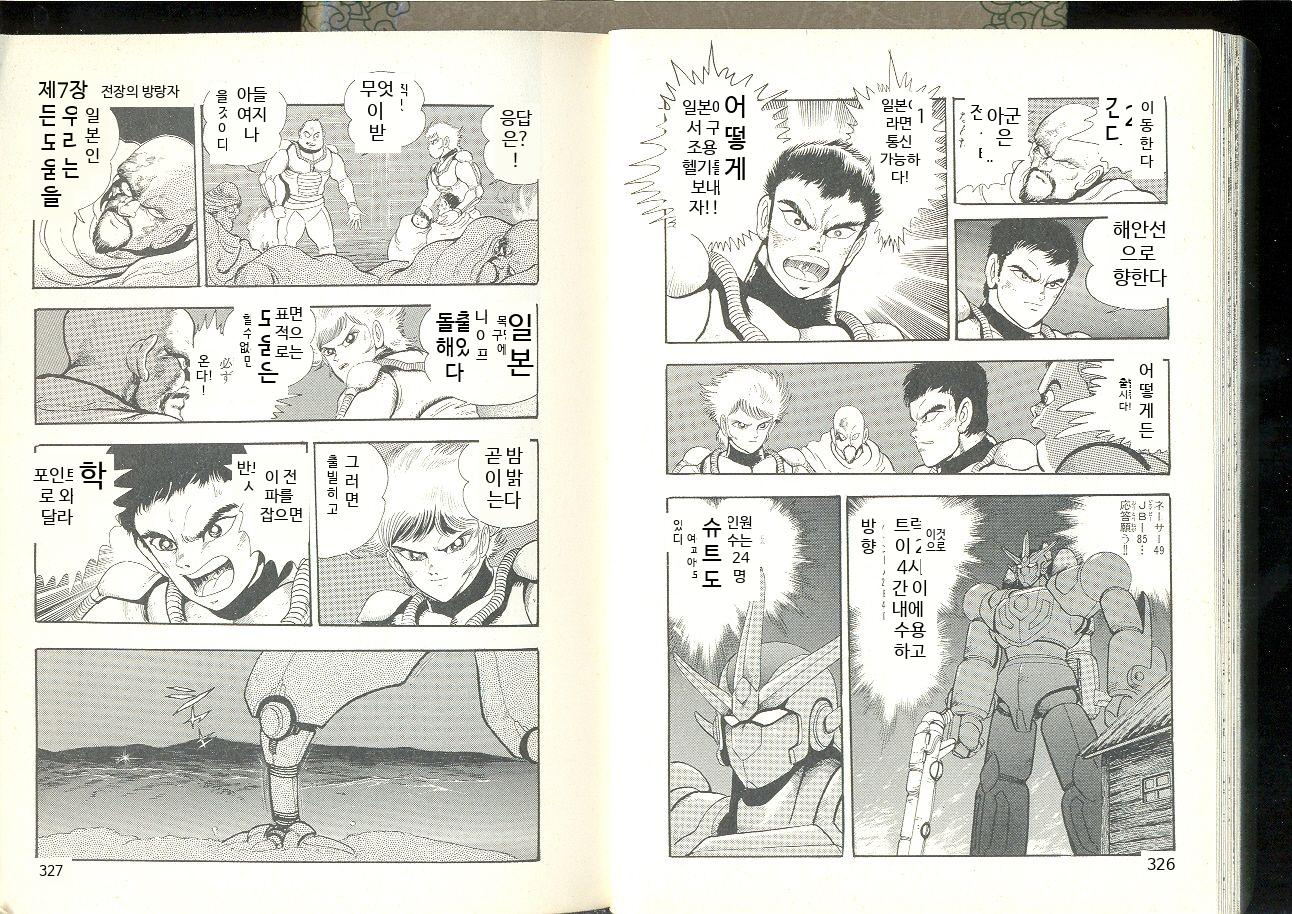
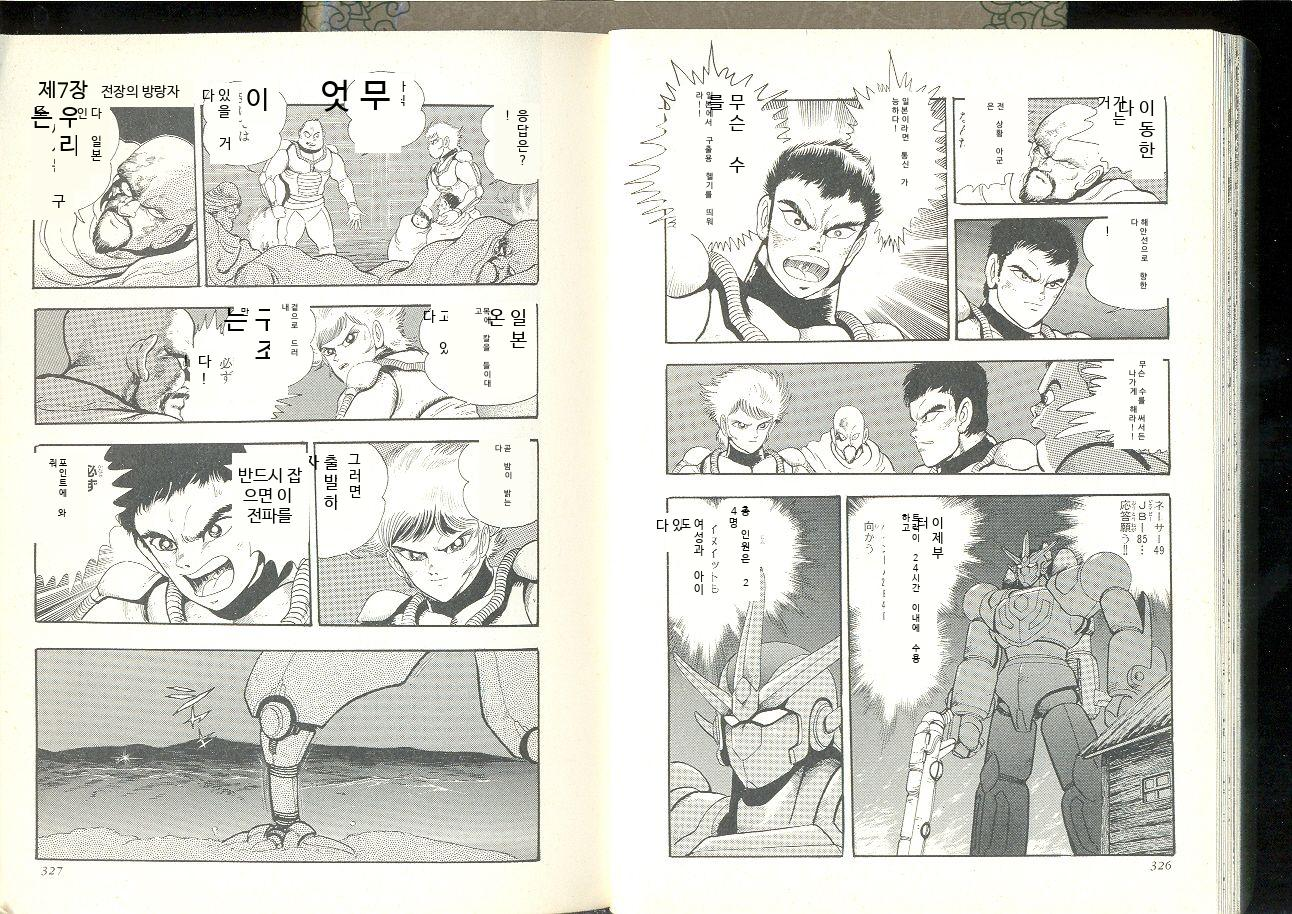
feat(render): 세로쓰기 렌더링 + 동적 클러스터 gap 개선
- 세로로 긴 클러스터(h > w*1.2)에서 세로쓰기 렌더링 (우→좌, 위→아래)
- _render_vertical: 폰트 크기를 bbox 폭에 맞추고 한 글자씩 배치
- _should_cluster: bbox 평균 크기 기반 동적 gap으로 같은 말풍선 텍스트 묶기
- 클러스터 단위 배경 지우기로 원본 텍스트 잔존 개선
- 데모 이미지 업데이트

diff --git a/render.py b/render.py
@@ -108,6 +108,51 @@ def _wrap_text(text: str, font: ImageFont.FreeTypeFont, max_width: int) -> list[
     return lines or [""]
 
 
+def _render_vertical(
+    draw: ImageDraw.ImageDraw,
+    text: str,
+    x: int,
+    y: int,
+    box_w: int,
+    box_h: int,
+    text_color: tuple[int, int, int],
+    font_path: str,
+) -> None:
+    """세로로 긴 영역에 텍스트를 세로쓰기로 렌더링.
+
+    폰트 크기를 box_w에 맞추고, 한 글자씩 위→아래로 배치.
+    글자가 넘치면 우→좌로 다음 열.
+    """
+    font_size = max(MIN_FONT_SIZE, min(box_w, box_h // max(1, len(text))))
+    font_size = min(font_size, box_w)
+    font = ImageFont.truetype(font_path, font_size)
+
+    char_h = int(font_size * LINE_SPACING)
+    chars_per_col = max(1, box_h // char_h)
+    num_cols = math.ceil(len(text) / chars_per_col)
+
+    # 우→좌 세로쓰기: 첫 열이 오른쪽
+    total_w = num_cols * int(font_size * LINE_SPACING)
+    x_start = x + box_w - int(font_size * LINE_SPACING)
+    if total_w < box_w:
+        x_start = x + box_w - int(font_size * LINE_SPACING) - (box_w - total_w) // 2
+
+    col = 0
+    row = 0
+    for char in text:
+        cx = x_start - col * int(font_size * LINE_SPACING)
+        cy = y + row * char_h
+        char_bbox = font.getbbox(char)
+        char_w = char_bbox[2] - char_bbox[0]
+        # 글자를 열 중앙에 배치
+        cx_centered = cx + (int(font_size * LINE_SPACING) - char_w) // 2
+        draw.text((cx_centered, cy), char, fill=text_color, font=font)
+        row += 1
+        if row >= chars_per_col:
+            row = 0
+            col += 1
+
+
 def _erase_rect(
     draw: ImageDraw.ImageDraw,
     img: Image.Image,
@@ -270,18 +315,23 @@ def run_render(
             bg_color = _get_background_color(img, cx1, cy1, cx2, cy2)
             text_color = _get_text_color(bg_color)
 
-            font_size, lines = _calc_font_size(chunk, cw, ch, font_file)
-            font = ImageFont.truetype(font_file, font_size)
+            is_vertical = ch > cw * 1.2
 
-            total_text_h = int(len(lines) * font_size * LINE_SPACING)
-            y_offset = cy1 + (ch - total_text_h) // 2
+            if is_vertical:
+                _render_vertical(draw, chunk, cx1, cy1, cw, ch, text_color, font_file)
+            else:
+                font_size, lines = _calc_font_size(chunk, cw, ch, font_file)
+                font = ImageFont.truetype(font_file, font_size)
 
-            for line in lines:
-                line_bbox = font.getbbox(line)
-                line_w = line_bbox[2] - line_bbox[0]
-                x_offset = cx1 + (cw - line_w) // 2
-                draw.text((x_offset, y_offset), line, fill=text_color, font=font)
-                y_offset += int(font_size * LINE_SPACING)
+                total_text_h = int(len(lines) * font_size * LINE_SPACING)
+                y_offset = cy1 + (ch - total_text_h) // 2
+
+                for line in lines:
+                    line_bbox = font.getbbox(line)
+                    line_w = line_bbox[2] - line_bbox[0]
+                    x_offset = cx1 + (cw - line_w) // 2
+                    draw.text((x_offset, y_offset), line, fill=text_color, font=font)
+                    y_offset += int(font_size * LINE_SPACING)
 
     output_path = Path.cwd() / f"{img_path.stem}_rendered{img_path.suffix}"
     img.save(output_path)
